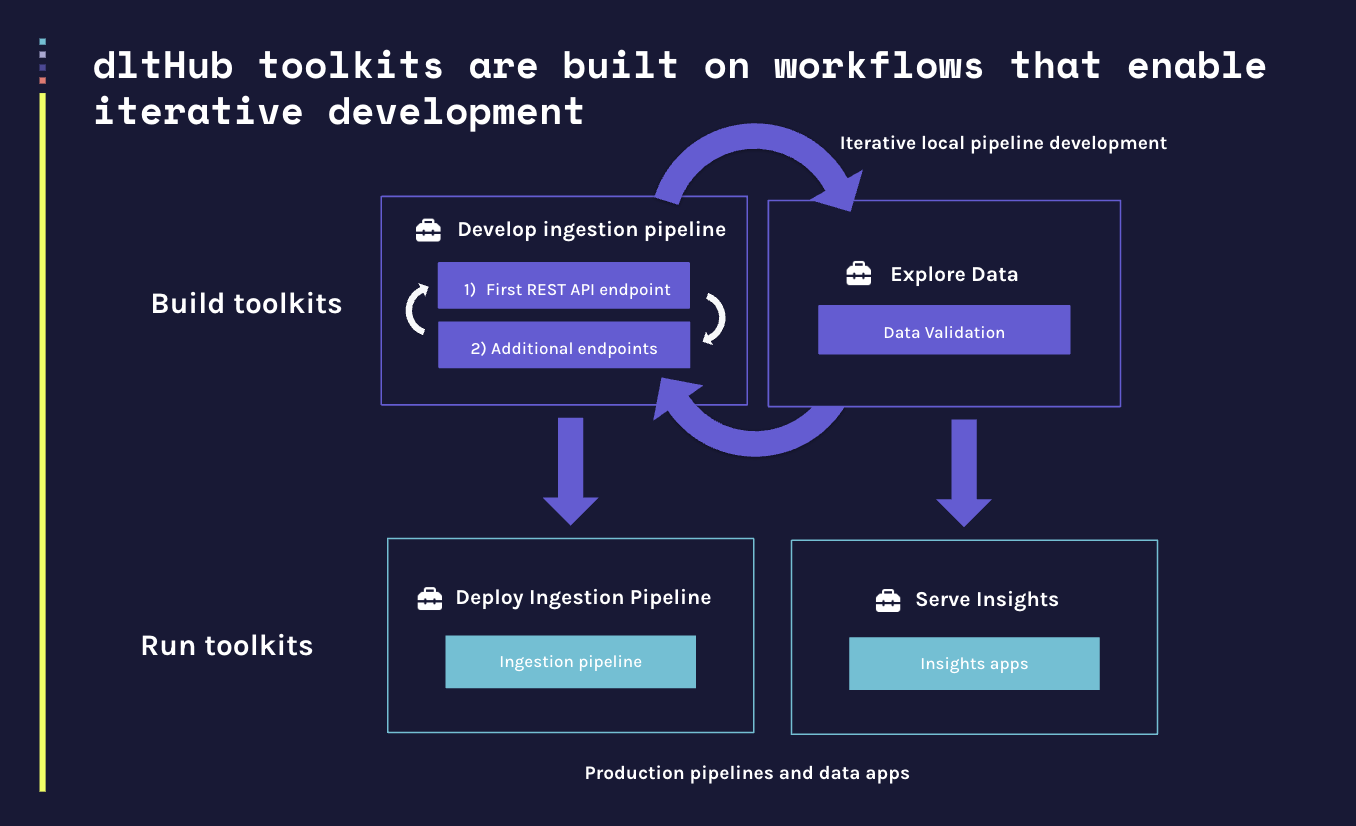
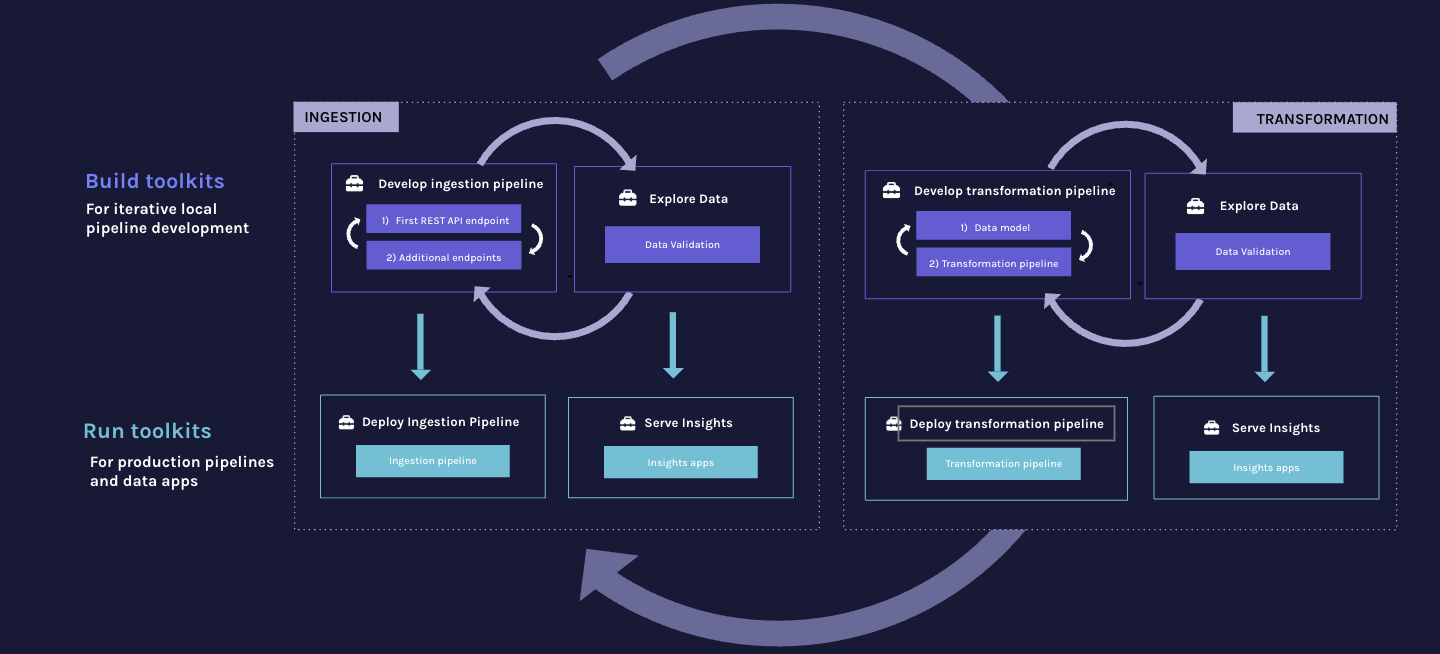
add new info from docs to readme

diff --git a/README_NEW.md b/README_NEW.md
@@ -9,7 +9,18 @@ The dltHub AI Workbench is tested with **Claude Code**, **Cursor**, and **Codex*
 
 ## The dlthub AI workbench supports the iterative data engineering workflow
 
-Building data pipelines is iterative. You start by developing and debugging a pipeline locally, explore the loaded data to validate it, then loop back to add more data refine. When your pipeline is ready, you deploy it and build data apps on top. After feedback from stakeholders, you go back into refinement. The workbench toolkits map directly onto these phases in the development cycle.
+Building data pipelines is iterative and covers two major phases — **ingestion** and **transformation** — each following the same inner loop:
+
+**Build loop (local development)**
+- Develop the pipeline iteratively — for ingestion: first REST API endpoint, then additional endpoints; for transformation: data model first, then the full transformation pipeline
+- Explore the loaded data and validate it after each step
+- Loop back to refine until the pipeline is solid
+
+**Run (production)**
+- Deploy the ingestion or transformation pipeline to production
+- Serve insights via data apps built on top of the loaded data
+
+The outer loop connects the two phases: insights from the transformation and serving layer feed back into ingestion refinement. The workbench **Build toolkits** support the local development loop; the **Run toolkits** handle deployment and data apps.
 
 ![Data Development Lifecycle](images/data_development_lifecycle.png)
 
@@ -38,7 +49,7 @@ All toolkits depend on `init` for shared rules, secrets handling, and the MCP se
 
 | Toolkit | Phase | Workflow entry | What it does | Example prompts |
 |---------|-------|---------------|-------------|---------------|
-| `bootstrap` | Setup | `/init-workspace` | Cold-start when you have no Python environment yet | *"Run /init-workspace to set up a Python environment with dlt"* |
+| `bootstrap` | Setup | `/init-workspace` | Checks for `uv`, Python venv, and `dlt`; installs what's missing; then runs `dlt ai init` and lists available toolkits | *"Run /init-workspace to set up a Python environment with dlt"* |
 | `rest-api-pipeline` | Build | `find-source` | Scaffold, debug, and validate REST API ingestion pipelines | *"Use find-source to load data from the Stripe API into DuckDB"* |
 | `dlthub-runtime` | Run | `setup-runtime` | Deploy pipelines to the dltHub platform | *"Use setup-runtime to deploy my pipeline to dltHub"* |
 | `data-exploration` | Explore | `explore-data` | Query loaded data and create marimo dashboards | *"Use explore-data to show me what's in the orders table"* |
@@ -49,8 +60,6 @@ All toolkits depend on `init` for shared rules, secrets handling, and the MCP se
 ## Getting started
 
 > **Note:** All `dlt ai` commands below use `uv run dlt ...` syntax. If you have `dlt` installed globally or in an active virtual environment, you can omit `uv run` and call `dlt` directly.
-
-> **No Python environment yet?** Install `bootstrap` first and run `/init-workspace` — the assistant sets up `uv`, Python, and `dlt` for you.
 
 ### Claude Code
 
@@ -82,9 +91,19 @@ Start a new session — plugins take effect only after restarting Claude Code: `
 
 For the MCP server to run, `uv` and `dlt` must be installed on your machine. If you don't have them yet, install `bootstrap` first and run `/init-workspace` before starting a new session.
 
+> **No Python environment yet?** The `bootstrap` toolkit (installed above) sets up `uv`, Python, and `dlt` for you — run `/init-workspace` to get started.
+
 > **Resuming a session?** Plugins installed mid-session are not active until you start a new one. Previous sessions can be resumed, but the new toolkit skills will only be available in sessions started after installation.
 
-#### Starting the workbench 
+#### Recommended CLAUDE.md additions
+
+Add the following to your `CLAUDE.md` to enforce safe credential handling:
+
+```markdown
+CRITICAL: never ask for credentials in chat. Always let the user edit secrets directly and do not attempt to read them.
+```
+
+#### Starting the workbench
 
 Once installed, start a new Claude Code session via `claude` in your terminal and use one of the example prompts from the [Available toolkits](#available-toolkits) table above to kick off a workflow.
 
@@ -103,13 +122,13 @@ uv pip install --upgrade "dlt[workspace]"
 # Set up your workspace (auto-detects your coding assistant)
 uv run dlt ai init
 
-`dlt ai init` detects your coding assistant from environment variables and config files, then installs skills, rules, and the MCP server in the correct locations for that tool. If multiple coding assistants are detected, pass `--agent` explicitly:
-
-```bash
+# If multiple coding assistants are detected, specify one explicitly:
 uv run dlt ai init --agent <agent>  # <agent>: claude | cursor | codex
 ```
 
-> **Codex note:** Codex does not support commands and rules, so the installer converts those into skills. Codex also runs in a strict sandbox — consider enabling web access in your project or global config:
+`dlt ai init` detects your coding assistant from environment variables and config files, then installs skills, rules, and the MCP server in the correct locations for that tool.
+
+> **Codex note:** Codex does not support commands and rules, so the installer converts those into skills and AGENTS.md. Codex also runs in a strict sandbox — consider enabling web access in your project or global config:
 > ```toml
 > # .codex/config.toml
 > web_search = "live"
@@ -137,14 +156,22 @@ uv run dlt ai toolkit data-exploration install
 
 Use one of the example prompts from the [Available toolkits](#available-toolkits) table above to kick off a workflow.
 
-**Cursor** — open the project in Cursor and use the chat panel (Cmd+L) to talk to the assistant. The installed skills and rules are picked up automatically.
+**Cursor** — open the project in Cursor and use the chat panel (Cmd+L) to talk to the assistant. The installed skills and rules are picked up automatically. Add the following to your `.cursor/rules/security.mdc` to enforce safe credential handling:
 
-**Codex** — either launch the Codex CLI in your terminal via `codex` or use the Codex chat in the web UI. Skills are available in both modes. Restart Codex after setup for the MCP server to take effect.
+```markdown
+CRITICAL: never ask for credentials in chat. Always let the user edit secrets directly and do not attempt to read them.
+```
+
+**Codex** — either launch the Codex CLI in your terminal via `codex` or use the Codex chat in the UI. Skills are available in both modes. The Codex CLI picks up the MCP server automatically; in the Codex UI you need to copy the MCP configuration manually. Restart Codex after setup for the MCP server to take effect. Add the following to your `AGENTS.md` to enforce safe credential handling:
+
+```markdown
+CRITICAL: never ask for credentials in chat. Always let the user edit secrets directly and do not attempt to read them.
+```
 
 
 ## The `dlt ai` CLI
 
-The `dlt ai` subcommand is the bridge between the workbench and your coding assistant. It handles two things: installing toolkit components into the right locations for your assistant, and running the MCP server that the assistant uses during a session.
+The `dlt ai` subcommand is the bridge between the workbench and your coding assistant. `dlt ai init` installs project rules, a secrets management skill, appropriate ignore files, and configures the dlt MCP server for your agent. `dlt ai toolkit install` copies additional toolkit components (skills, rules, commands) into the right locations for your assistant.
 
 **Toolkit management** — copies skills, rules, commands, and MCP config from the workbench into your project's agent config directory (`.claude/`, `.cursor/`, `.agents/`, etc.):
 

diff --git a/workbench/rest-api-pipeline/skills/view-data/SKILL.md b/workbench/rest-api-pipeline/skills/view-data/SKILL.md
@@ -15,7 +15,7 @@ Parse `$ARGUMENTS`:
 ## Workspace Dashboard UI if just exploring
 
 Tell the user to run Workspace Dashboard **if no precise query or instructions were give**, this
-assumes user wants to just look at the data. Otherise
+assumes user wants to just look at the data. Otherwise
 ```
 dlt pipeline <pipeline_name> show
 ```
